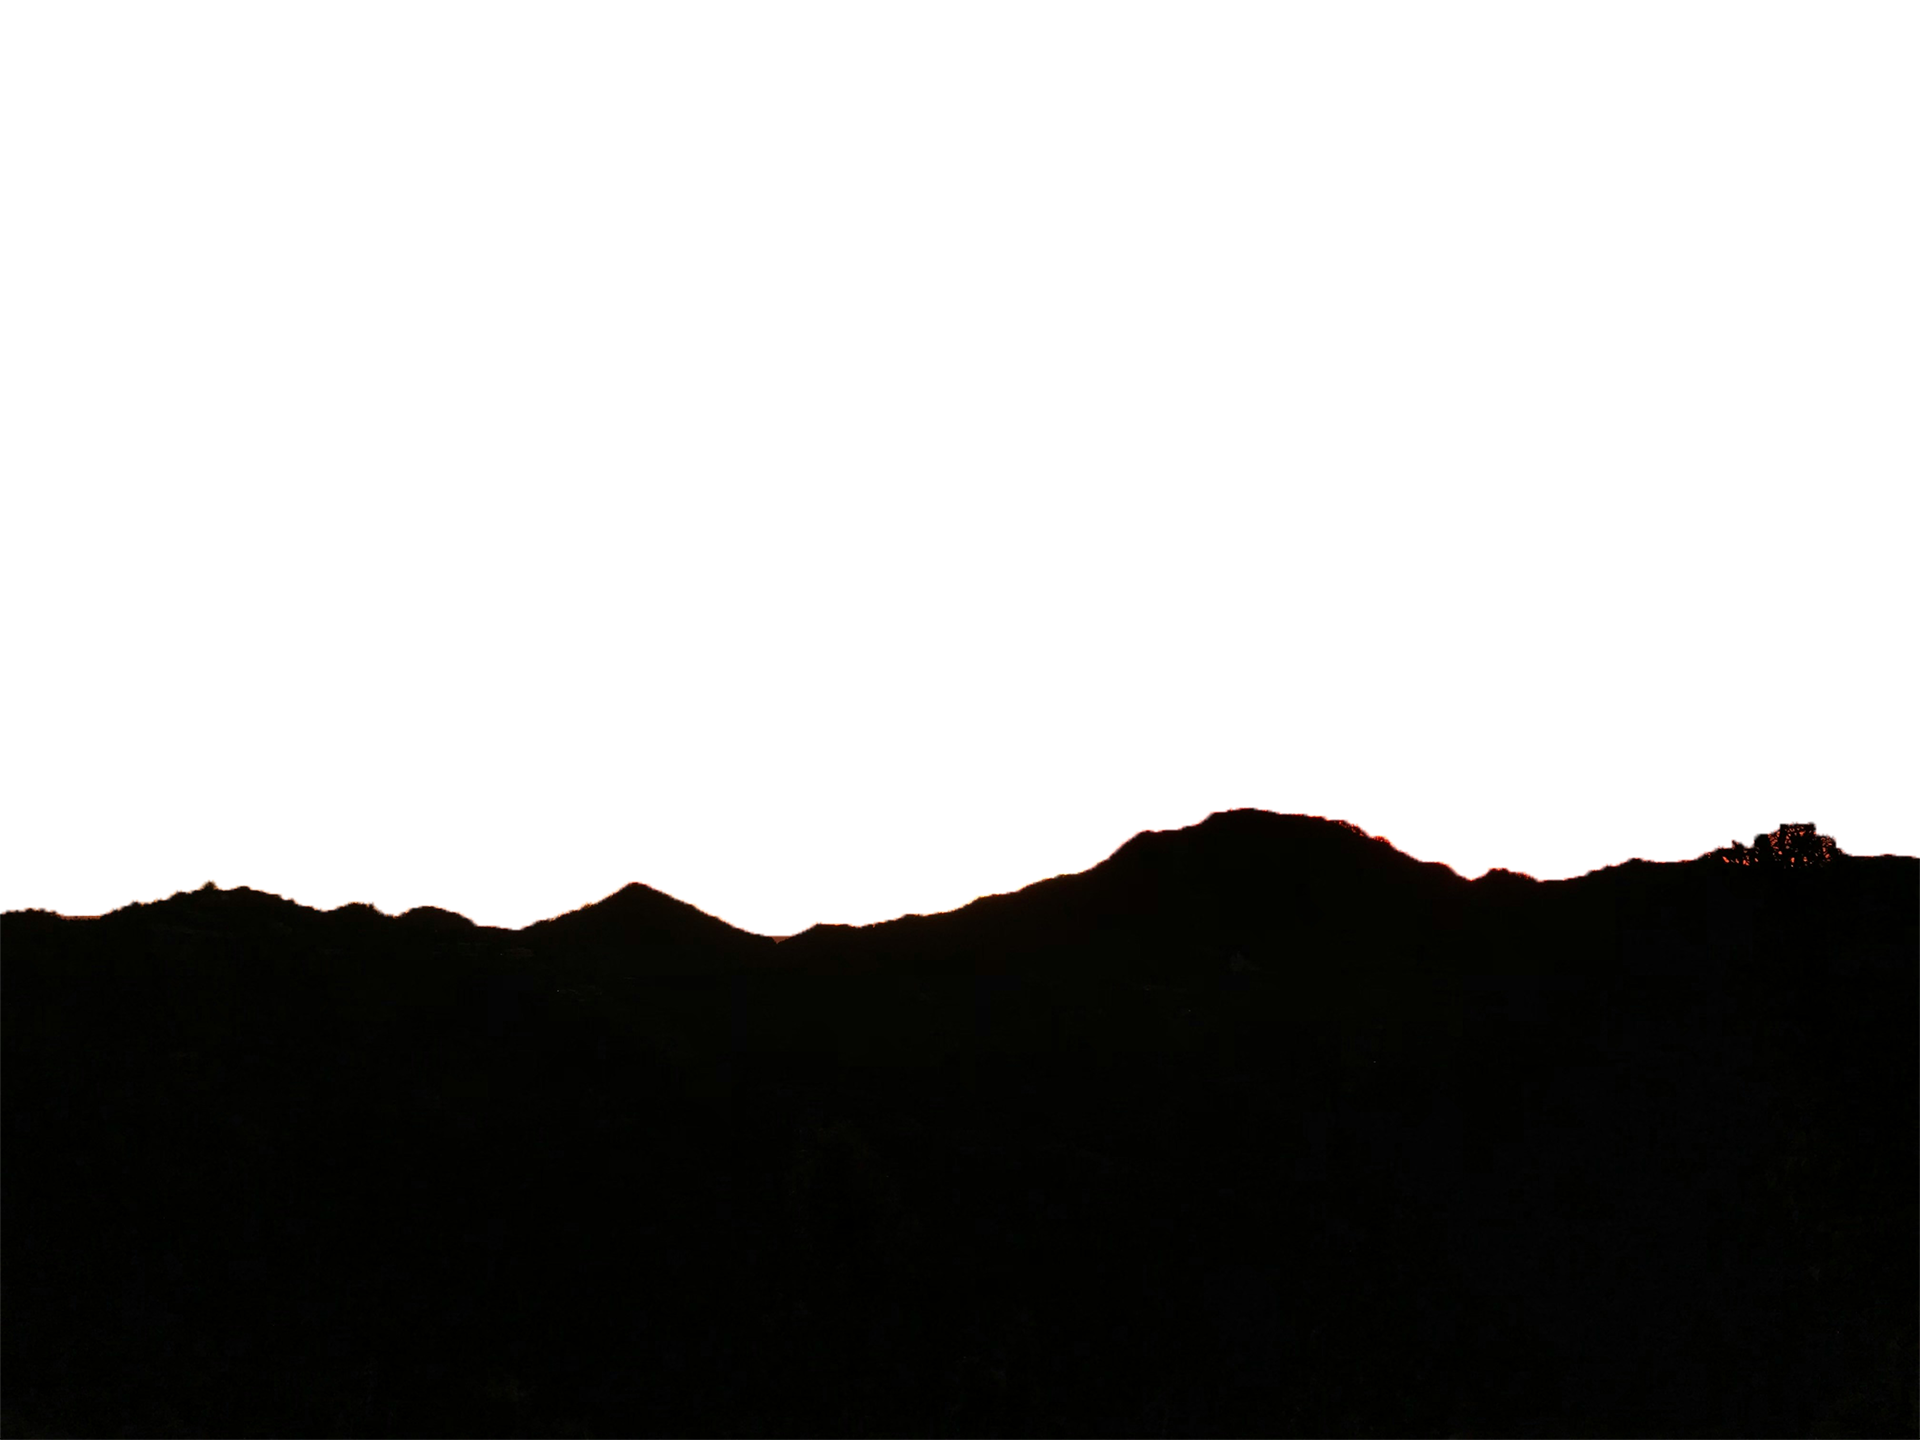
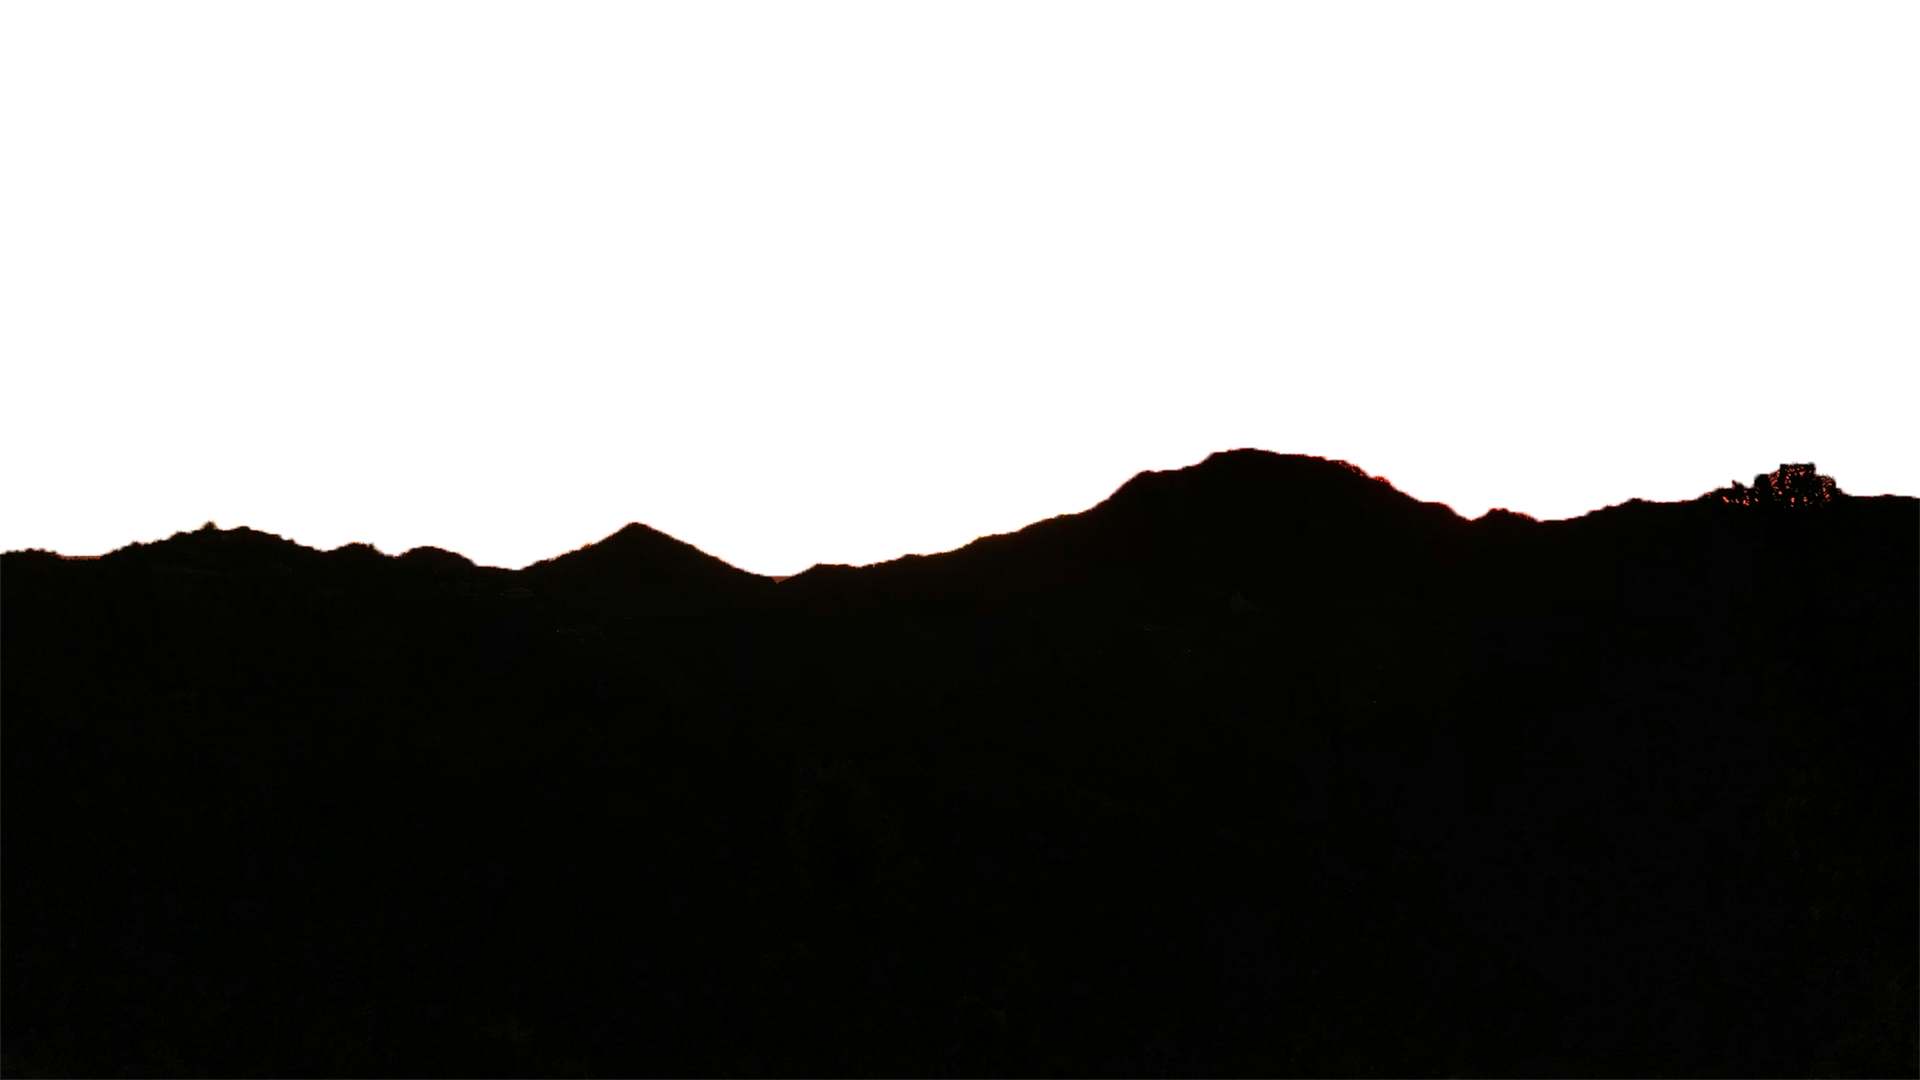
set css for hero parallax

Changed region(s): [[0.0, 0.3972, 1.0, 0.6722]]

diff --git a/src/styles/hero.css b/src/styles/hero.css
@@ -16,7 +16,9 @@ header {
 }
 
 .title {
-  font-size: 7rem;
+  position: absolute;
+  top: 10%;
+  font-size: 3rem;
   text-shadow: 0 0 5px black;;
 }
 
@@ -38,20 +40,27 @@ header {
   transform: translateZ(-10000px) scale(2);
 }
 .bg-2 {
-  transform: translateZ(-8000px) scale(1.8);
+  transform: translateZ(-9000px) scale(1.9);
+  bottom: 35rem;
 }
 .bg-3 {
-  transform: translateZ(-8px) scale(2);
+  transform: translateZ(-8000px) scale(1.8);
+  bottom: 7rem;
 }
 .bg-4 {
-  transform: translateZ(-7px) scale(2);
+  transform: translateZ(-6000px) scale(1.6);
+  bottom: -13rem;
 }
 .bg-5 {
-  transform: translateZ(-6px) scale(2);
+  transform: translateZ(-4000px) scale(1.4);
+  bottom: -18rem;
 }
 .bg-6 {
-  transform: translateZ(-5px) scale(1);
+  transform: translateZ(-2000px) scale(0.3);
+  overflow-x: visible;
+  bottom: -15rem;
 }
 .bg-7 {
-  transform: translateZ(-4px) scale(2);
+  transform: translateZ(0px) scale(1);
+  overflow-y: visible;
 }

diff --git a/src/components/Hero/Hero.tsx b/src/components/Hero/Hero.tsx
@@ -19,13 +19,12 @@ const Hero = () => {
           src={"/images/Hero/mountain.png"}
           alt="Image of a mountain range"
           width={1920}
-          height={1440}
+          height={1080}
           className="bg-2"
         />
         <h1 className="title font-display">
           Gravity Room
         </h1>
-        {/*
         <Image
           src={"/images/Hero/left-hill.png"}
           alt="Image of a lake landscape"
@@ -53,7 +52,7 @@ const Hero = () => {
           width={1200}
           height={600}
           className="bg-6"
-        />
+          />
         <Image
           src={"/images/Hero/palm-foreground.png"}
           alt="Image a palmtree foreground silhouette"
@@ -61,7 +60,6 @@ const Hero = () => {
           height={1279}
           className="bg-7"
         />
-          */}
       </header>
     </div>
   );
